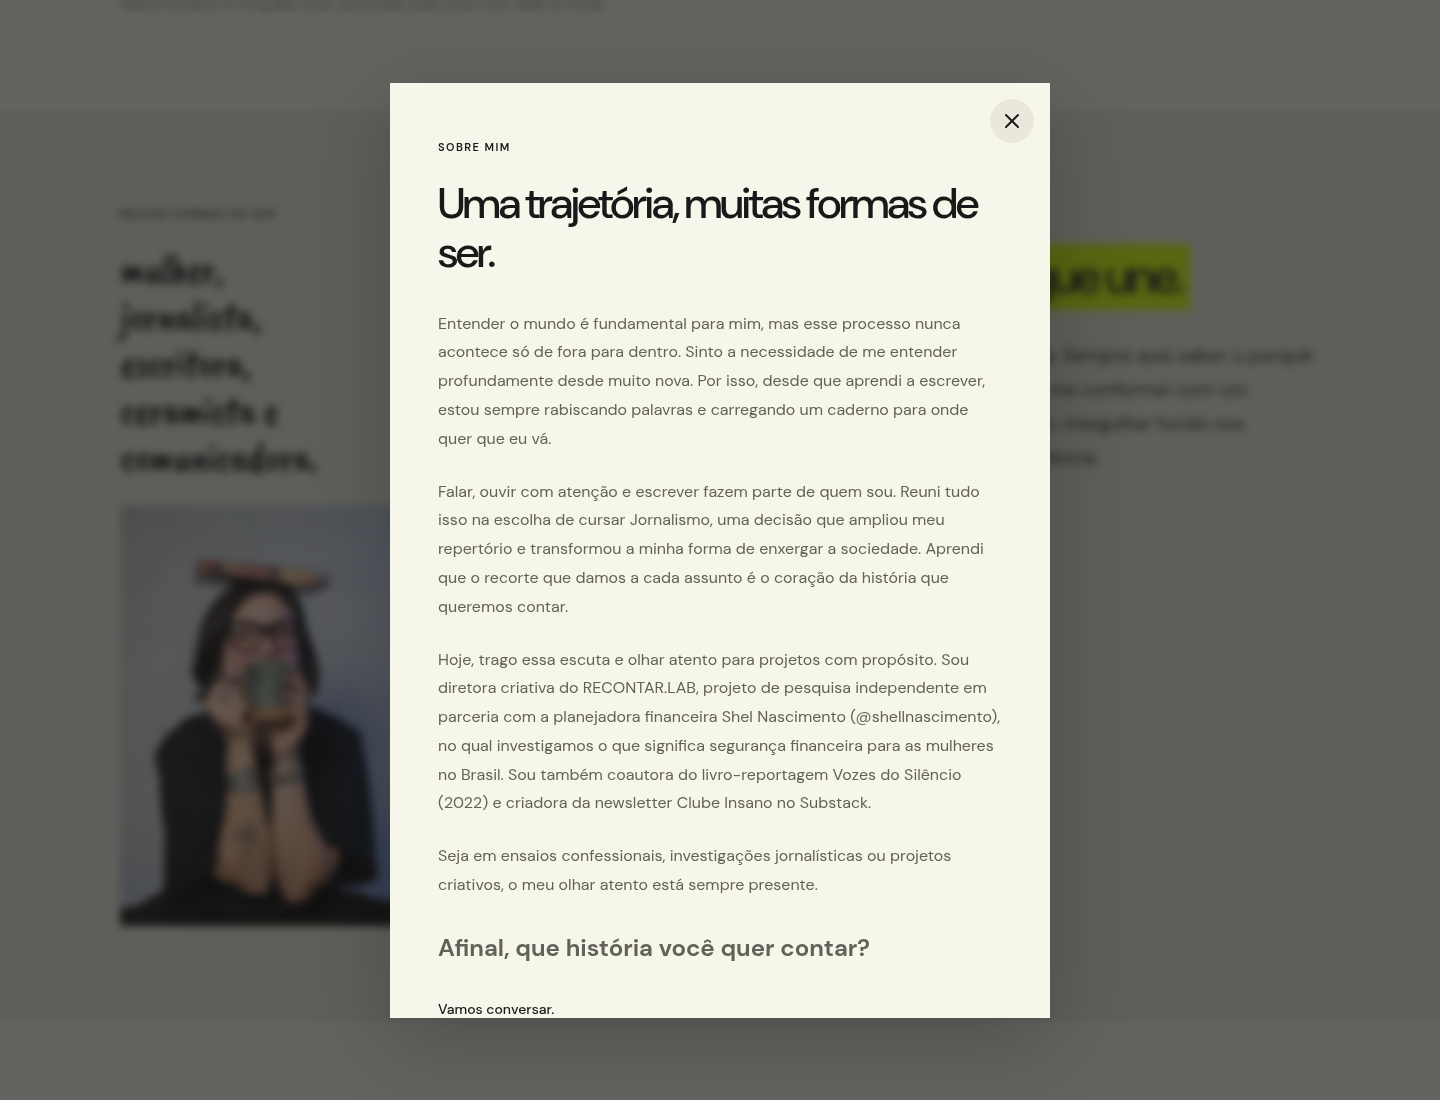
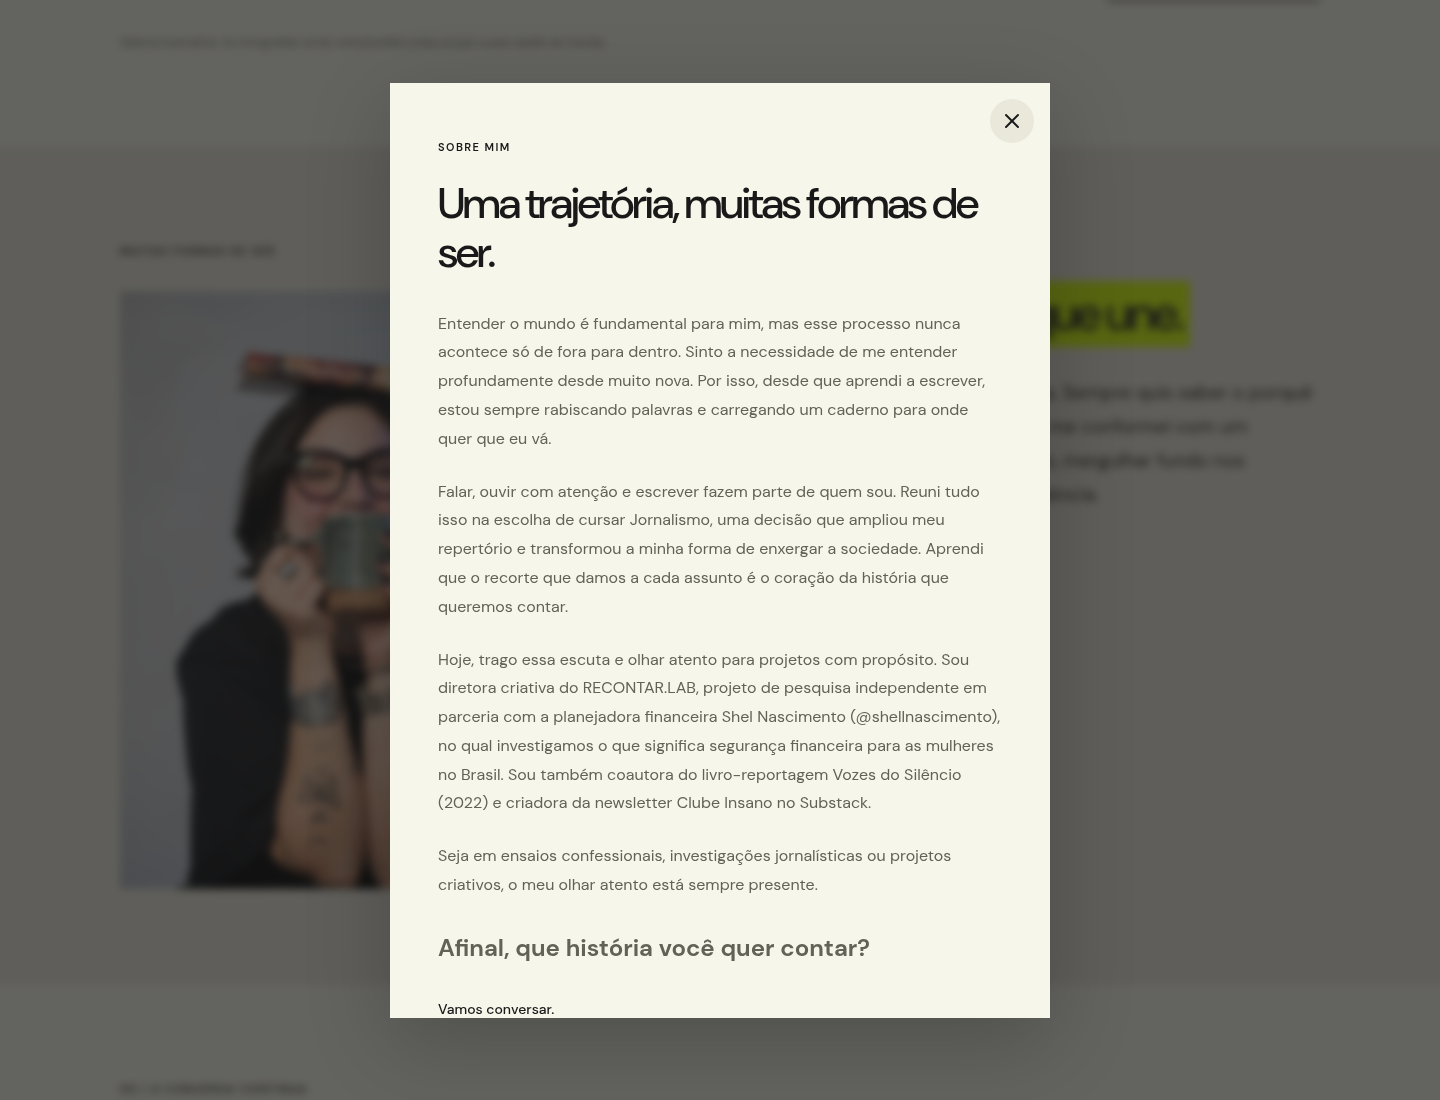
Enlarge about portrait and remove role list

Changed region(s): [[0.0625, 0.2164, 0.2812, 0.8655], [0.7188, 0.2164, 0.8438, 0.34]]

diff --git a/src/about.css b/src/about.css
@@ -1,7 +1,6 @@
 .about-grid { grid-template-columns: .8fr 1.2fr; gap: 80px; align-items: start; }
-.about-art { aspect-ratio: auto; min-height: 0; padding: 0; justify-content: flex-start; gap: 24px; }
-.about-art > .about-roles { font-size: 42px; line-height: 1.12; letter-spacing: -.025em; transform: none; }
-.about-photo { width: min(100%, 280px); height: auto; object-fit: contain; }
+.about-art { aspect-ratio: auto; min-height: 0; padding: 0; justify-content: flex-start; gap: 32px; }
+.about-photo { width: 100%; height: auto; aspect-ratio: 3 / 4; object-fit: cover; object-position: center 35%; }
 .about-copy h2 { font-size: clamp(32px, 3.5vw, 48px); line-height: 1.38; margin: 22px 0 28px; }
 .about-highlight { background: var(--accent); color: var(--ink); padding: .03em .14em; box-decoration-break: clone; -webkit-box-decoration-break: clone; }
 .about-copy > p:not(.eyebrow) { color: var(--ink); font-size: 19px; line-height: 1.8; margin-bottom: 28px; }
@@ -9,8 +8,7 @@
 @media (max-width: 1100px) { .about-grid { gap: 48px; } }
 @media (max-width: 760px) {
   .about-grid { grid-template-columns: 1fr; gap: 40px; }
-  .about-art > .about-roles { font-size: 38px; }
-  .about-photo { width: min(100%, 320px); }
+  .about-photo { width: 100%; max-width: 480px; }
   .about-copy h2 { font-size: 34px; }
   .about-copy > p:not(.eyebrow) { font-size: 17px; line-height: 1.75; }
 }

diff --git a/src/main.tsx b/src/main.tsx
@@ -111,7 +111,6 @@ function App() {
         <div className="wrap about-grid">
           <div className="about-art">
             <p className="eyebrow">MUITAS FORMAS DE SER</p>
-            <div className="handwritten about-roles">mulher,<br />jornalista,<br />escritora,<br />ceramista e<br />comunicadora.</div>
             <img className="about-photo" src="/images/cecilia-caneca.png" alt="Cecilia Vetchi segurando uma caneca de cerâmica, com um livro equilibrado sobre a cabeça" loading="lazy" width="1023" height="1537" />
           </div>
           <div className="about-copy">
